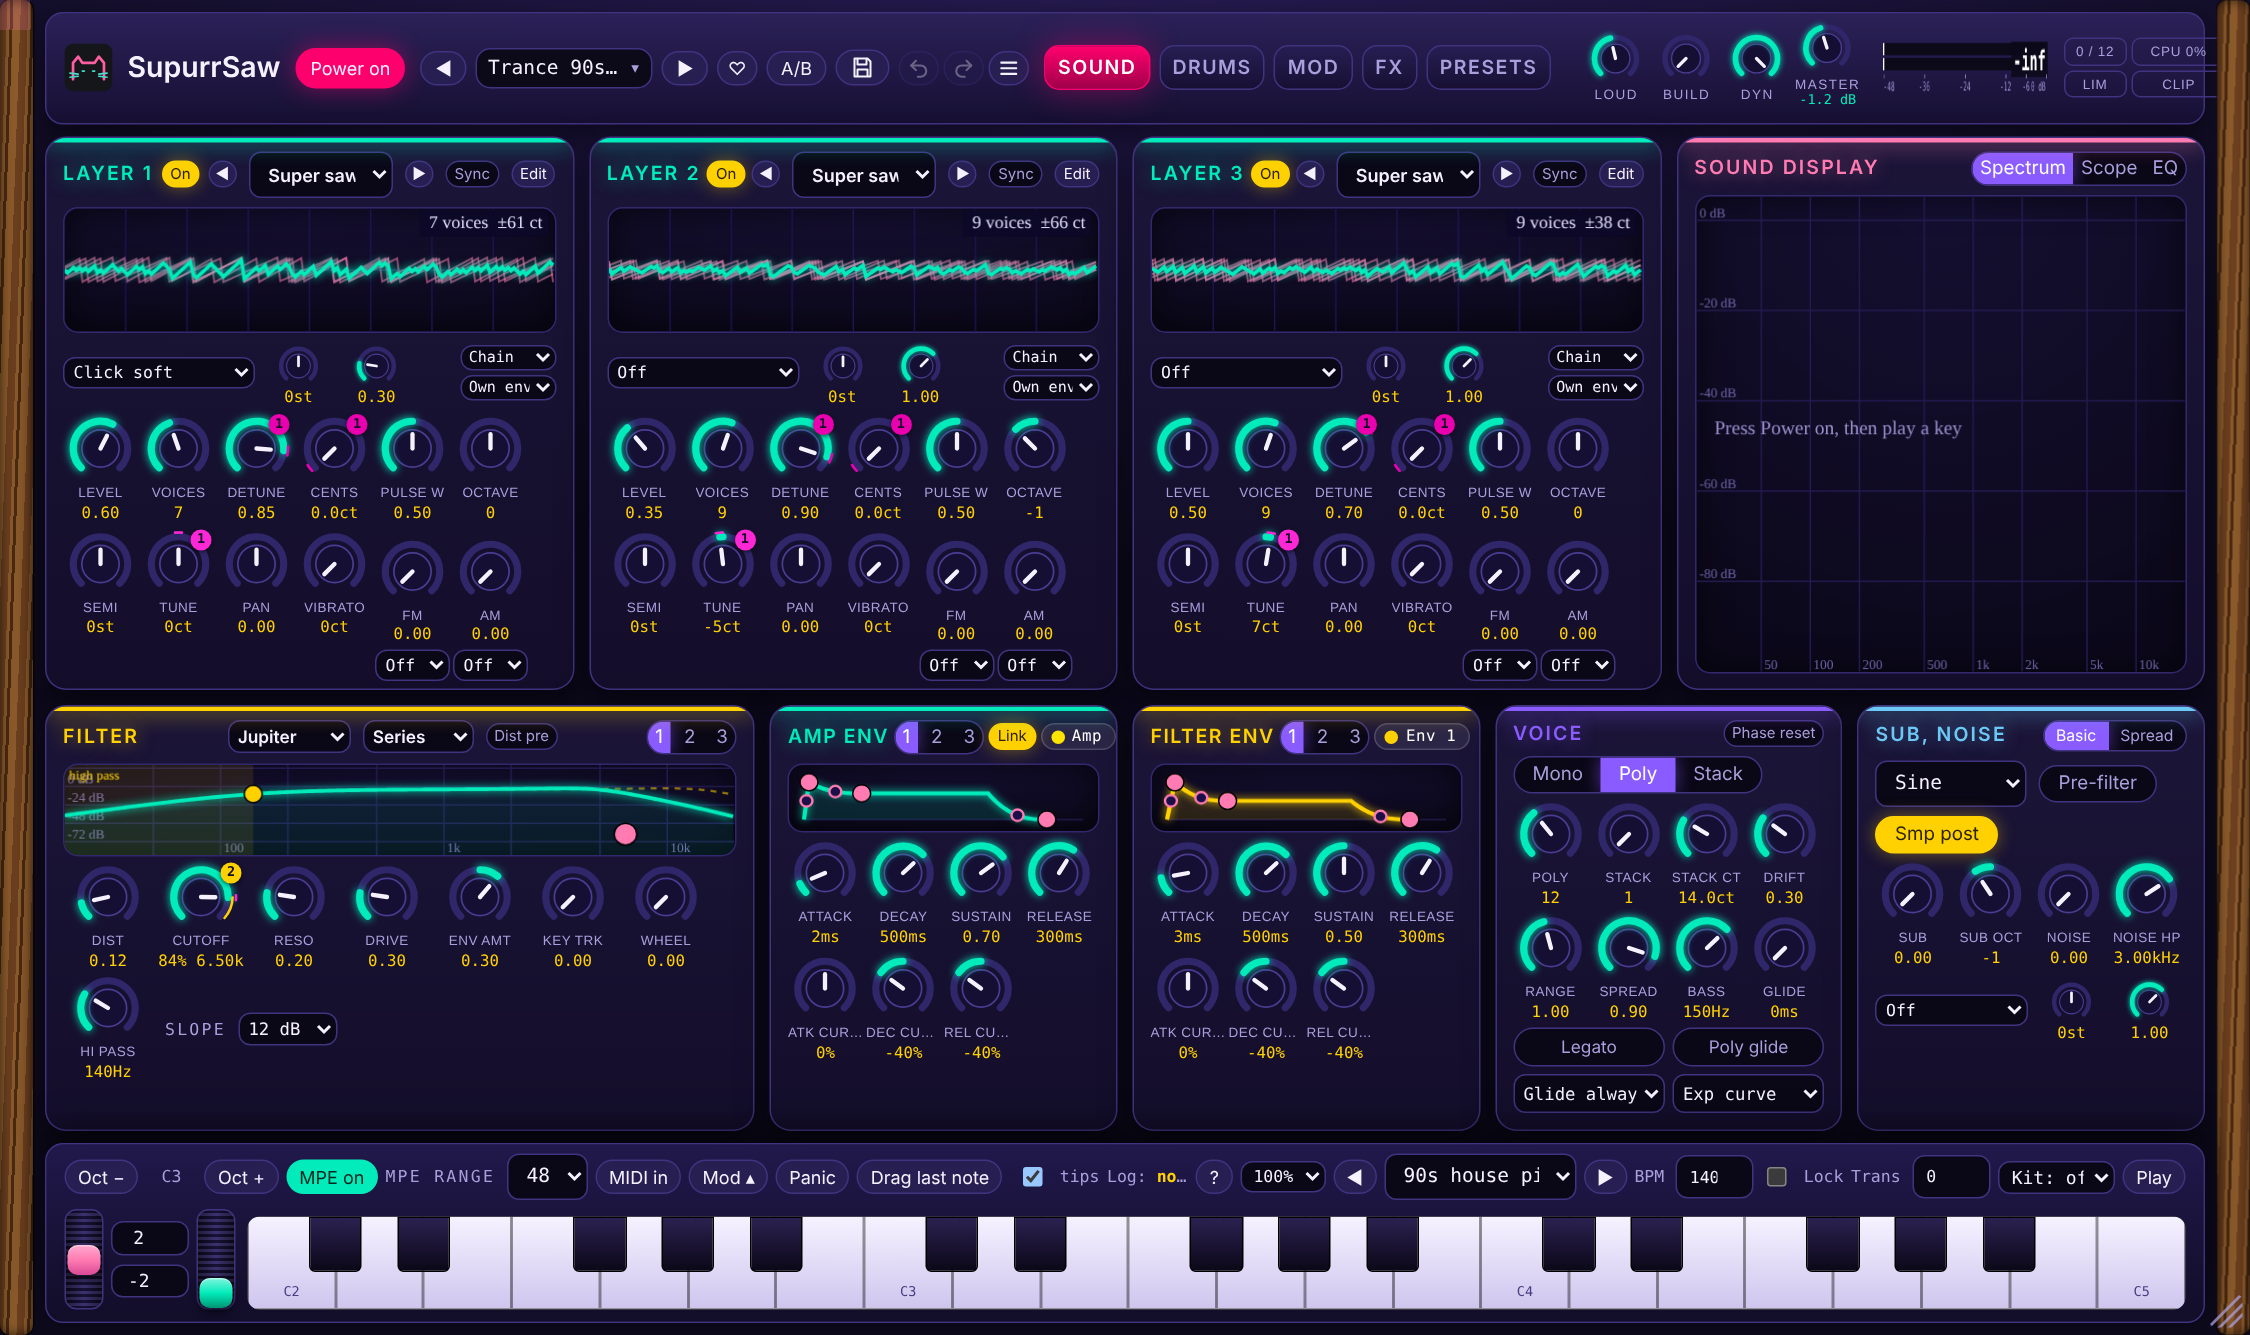
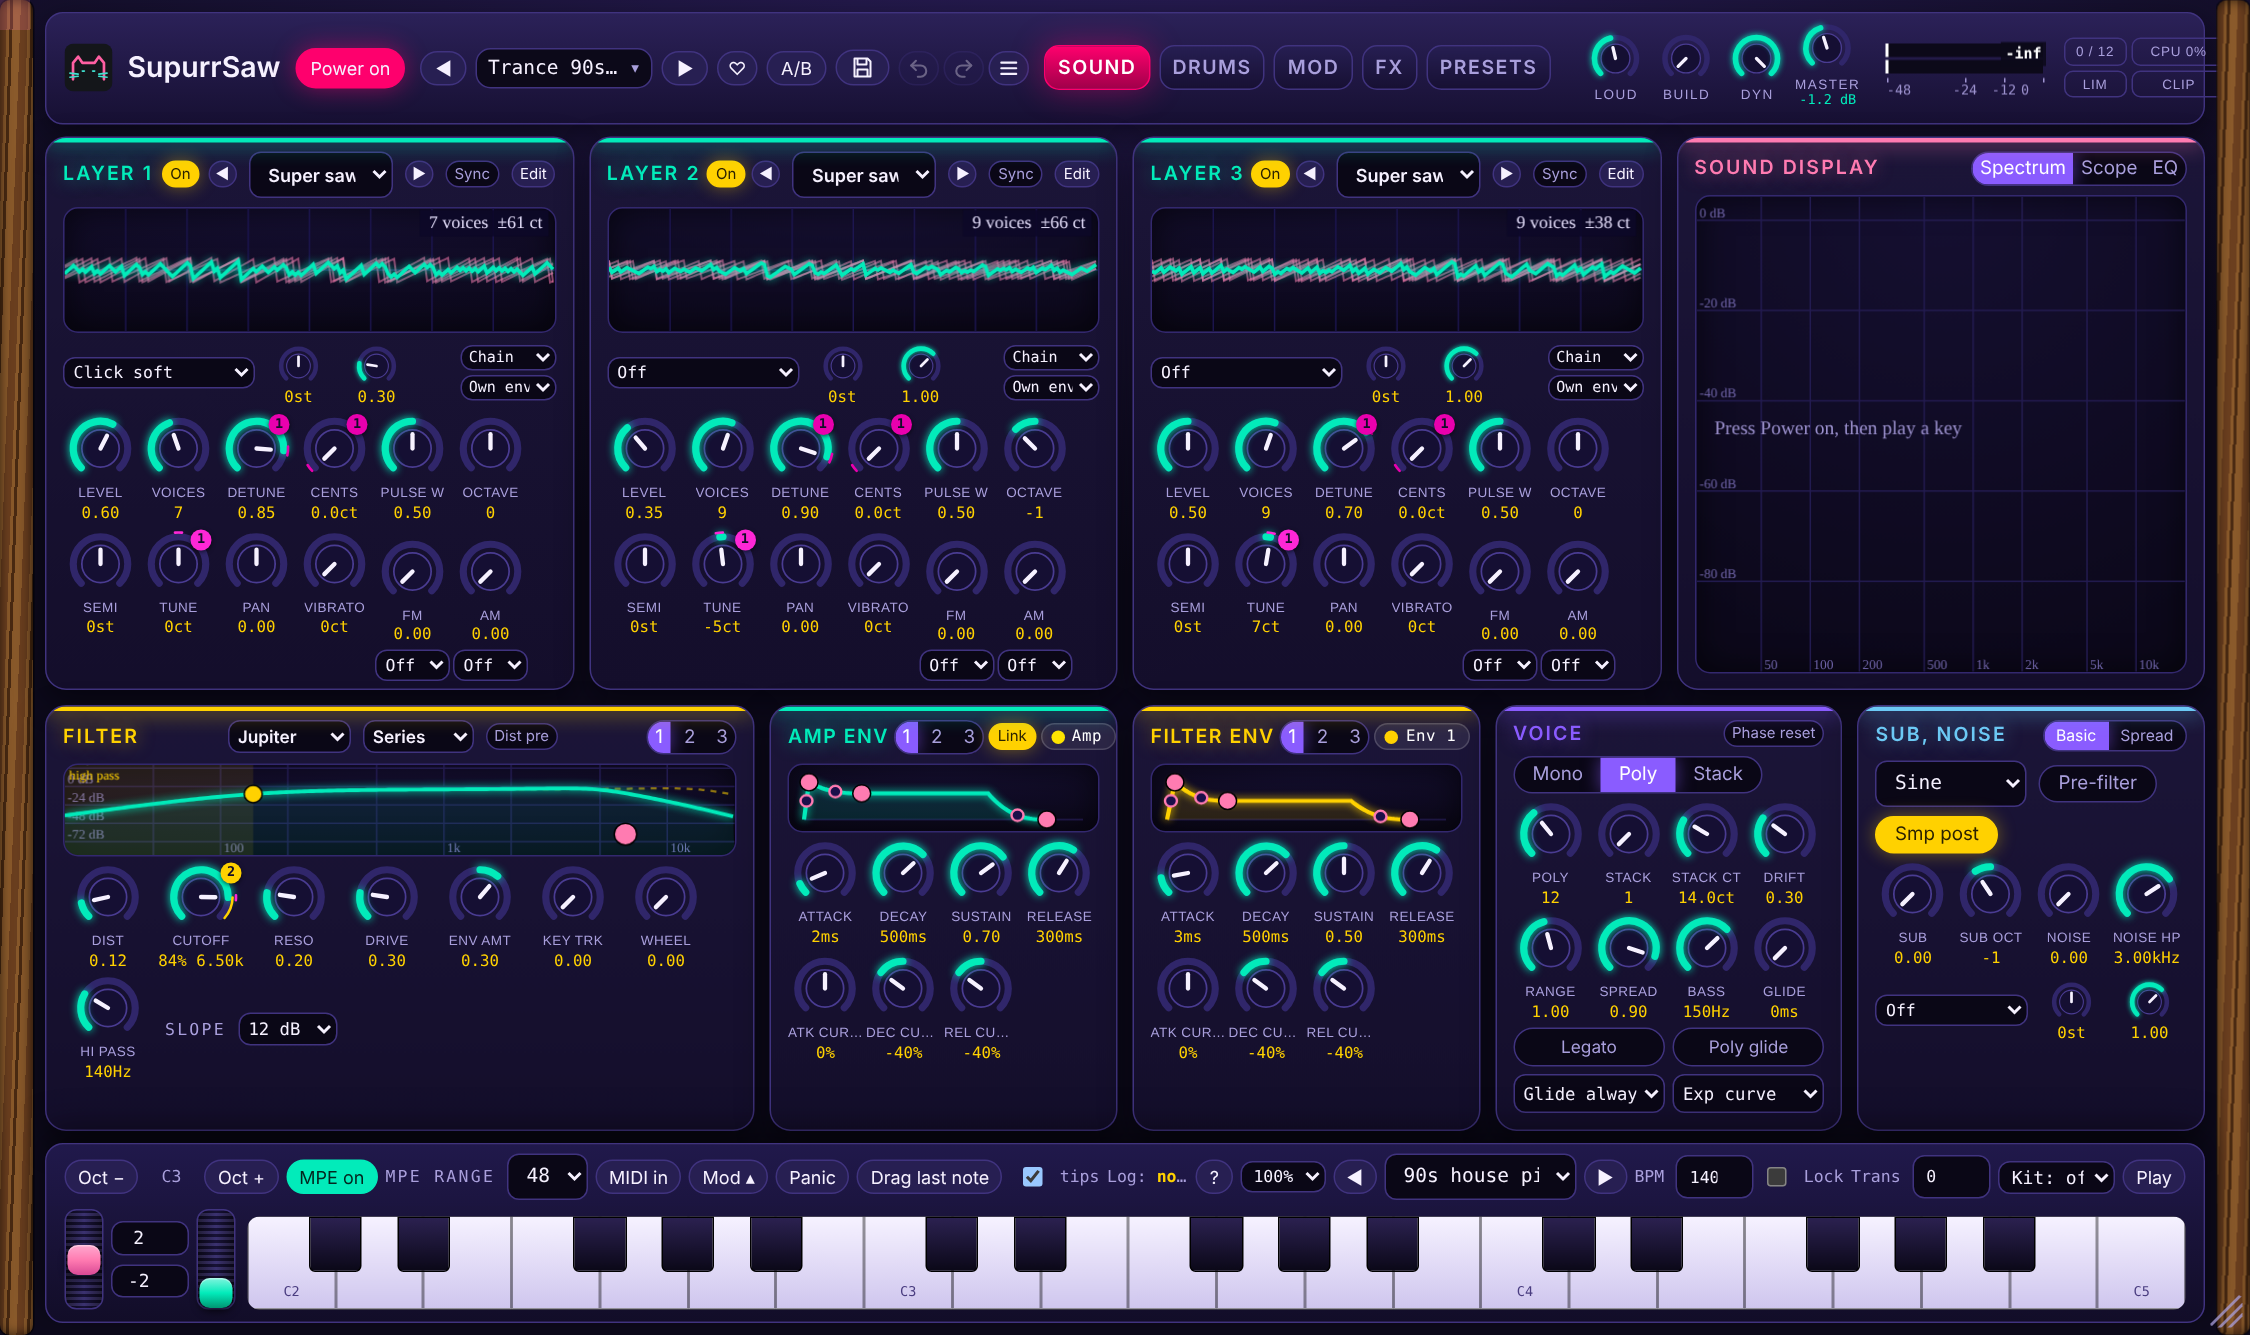
Meter scale readable at the plugin's width, real CPU load shown in the host, diagnostics report includes the current settings
Claude-Session: https://claude.ai/code/session_015F85RWM9RCbLtwwXZANyrz

Changed region(s): [[0.28, 0.1843, 0.7467, 0.215], [0.0311, 0.1843, 0.2489, 0.215], [0.84, 0.0307, 0.9333, 0.0614]]

diff --git a/ui/supurrsaw-playground.html b/ui/supurrsaw-playground.html
@@ -3540,7 +3540,9 @@ const mc=$("#meter"),mg=mc.getContext("2d");
 const db=x=>x<1e-5?-100:20*Math.log10(x);
 let pk=[-100,-100],pkT=[0,0],fbuf=null,tbuf=null;
 function drawMeter(){
-  const W=mc.width,H=mc.height;mg.clearRect(0,0,W,H);
+  const dpr=window.devicePixelRatio||1,cw=mc.clientWidth||250,chh=mc.clientHeight||40;   /* backing store follows the real size, so the number is never stretched */
+  if(mc.width!==Math.round(cw*dpr)||mc.height!==Math.round(chh*dpr)){mc.width=Math.round(cw*dpr);mc.height=Math.round(chh*dpr);}
+  mg.setTransform(dpr,0,0,dpr,0,0);const W=cw,H=chh;mg.clearRect(0,0,W,H);
   const lo=-48,x=d=>clamp((d-lo)/(0-lo),0,1)*(W-8)+4,vals=[db(meter.l),db(meter.r)];
   for(let c=0;c<2;c++){
     const d=vals[c],y=4+c*11;
@@ -3550,9 +3552,9 @@ function drawMeter(){
     const now=performance.now();if(d>=pk[c]||now-pkT[c]>1200){pk[c]=d;pkT[c]=now;}
     mg.fillStyle="#fff";mg.fillRect(x(pk[c])-1,y,2,9);
   }
-  {const pm=Math.max(pk[0],pk[1]),s=Math.max(1,W/(mc.clientWidth||W)),fs=Math.round(9*s);mg.font="600 "+fs+"px IBM Plex Mono,monospace";mg.textAlign="right";const tx=pm<=-99?"-inf":(pm>0?"+":"")+pm.toFixed(1),w=mg.measureText(tx).width;mg.fillStyle="#0c0919dd";mg.fillRect(W-w-8,3,w+6,fs+6);mg.fillStyle=pm>-1?"#ff7bb1":"#fff";mg.fillText(tx,W-5,3+fs+1);}
+  {const pm=Math.max(pk[0],pk[1]),fs=10;mg.font="600 "+fs+"px IBM Plex Mono,monospace";mg.textAlign="right";const tx=pm<=-99?"-inf":(pm>0?"+":"")+pm.toFixed(1),w=mg.measureText(tx).width;mg.fillStyle="#0c0919dd";mg.fillRect(W-w-8,3,w+6,fs+6);mg.fillStyle=pm>-1?"#ff7bb1":"#fff";mg.fillText(tx,W-5,3+fs+1);}
   mg.fillStyle="#9d92cf";mg.font="9px IBM Plex Mono,monospace";mg.textAlign="center";
-  for(const t of [-48,-36,-24,-12,-6,0]){const tx=x(t);mg.fillRect(tx,27,1,3);mg.fillText(t===0?"0 dB":String(t),clamp(tx,12,W-16),39);}
+  for(const t of (W<170?[-48,-24,-12,0]:[-48,-36,-24,-12,-6,0])){const tx=x(t);mg.fillRect(tx,27,1,3);mg.fillText(t===0?(W<170?"0":"0 dB"):String(t),clamp(tx,12,W-16),Math.min(39,H-2));}
   {const vt=(meter.act|0)+" / "+(P?P.polyphony:0),vn=$("#voices").firstChild;if(vn&&vn.nodeType===3){if(vn.nodeValue!==vt)vn.nodeValue=vt;}else $("#voices").insertBefore(document.createTextNode(vt),$("#voices").firstChild);window.__polySync&&window.__polySync();
     const ld=clamp(meter.load||0,0,1),ct="CPU "+Math.round(ld*100)+"%"+(meter.cap<15?" *":"");const cb=$("#cpuBar"),cx=$("#cpuTxt"),cl=$("#cpuLamp");if(cx&&cx.textContent!==ct)cx.textContent=ct;if(cb)cb.style.width=Math.round(ld*100)+"%";if(cl){cl.classList.toggle("mid",ld>=0.6&&ld<0.85);cl.classList.toggle("hi",ld>=0.85);}}
   $("#lampLim").classList.toggle("on",meter.lim>(P?P.limCeil:0.9)+0.005);

diff --git a/plugin/Source/PluginEditor.cpp b/plugin/Source/PluginEditor.cpp
@@ -105,9 +105,12 @@ SupurrEditor::SupurrEditor (SupurrProcessor& p) : AudioProcessorEditor (&p), pro
             juce::File f = which == "log" ? Diagnostics::folder ("logs") : Diagnostics::folder (safeName (which).isEmpty() ? "exports" : safeName (which));
             f.revealToUser(); done (true);
         })
-        .withNativeFunction ("copyDiagnostics", [] (const juce::Array<juce::var>&, Completion done)
+        .withNativeFunction ("copyDiagnostics", [sp = juce::Component::SafePointer<SupurrEditor> (this)] (const juce::Array<juce::var>&, Completion done)
         {
-            juce::SystemClipboard::copyTextToClipboard (Diagnostics::report());
+            auto text = Diagnostics::report();
+            if (sp != nullptr)   // current settings, so a report says what the instance really plays
+                text << "\nCurrent state:\n" << juce::JSON::toString (sp->proc.getInitState(), true) << "\n";
+            juce::SystemClipboard::copyTextToClipboard (text);
             done (true);
         })
         .withNativeFunction ("releaseFocus", [sp = juce::Component::SafePointer<SupurrEditor> (this)] (const juce::Array<juce::var>&, Completion done)
@@ -190,7 +193,7 @@ void SupurrEditor::timerCallback()
     for (int i = 0; i < 3; ++i) arr.add (m.gr[i]);
     for (int i = 0; i < 3; ++i) arr.add (m.dm[i]);
     arr.add (m.trips);
-    arr.add (0.f); arr.add (0.f);                         // load, voice cap (page defaults)
+    arr.add (proc.engineLoad()); arr.add (0.f);          // measured engine load; voice cap (page default)
     for (int i = 0; i < 4; ++i) arr.add (0.f);           // EQ live (page computes its own here)
     for (int i = 0; i < 8; ++i) arr.add (m.wet[i]);
     web->emitEventIfBrowserIsVisible ("meters", juce::var (arr));

diff --git a/plugin/Source/PluginProcessor.cpp b/plugin/Source/PluginProcessor.cpp
@@ -130,6 +130,7 @@ void SupurrProcessor::processBlock (juce::AudioBuffer<float>& buffer, juce::Midi
     }
 
     // host MIDI, rendered in slices so notes land on the right sample
+    const auto tRender0 = juce::Time::getHighResolutionTicks();
     int pos = 0;
     auto renderTo = [&] (int end)
     {
@@ -191,6 +192,11 @@ void SupurrProcessor::processBlock (juce::AudioBuffer<float>& buffer, juce::Midi
     }
     volNow = target;
     scopeWp.store (wp, std::memory_order_release);
+    {   // engine load: render time against the time this block covers
+        const double sr = sampleRateNow.load();
+        const double used = juce::Time::highResolutionTicksToSeconds (juce::Time::getHighResolutionTicks() - tRender0);
+        if (sr > 0 && n > 0) { const float x = (float) (used / ((double) n / sr)); float o = loadNow.load(); loadNow.store (o + 0.3f * (x - o)); }
+    }
 
     auto bump = [] (std::atomic<float>& a, float v) { float o = a.load(); while (v > o && ! a.compare_exchange_weak (o, v)) {} };
     bump (mPeakL, pl); bump (mPeakR, pr);

diff --git a/plugin/Source/PluginProcessor.h b/plugin/Source/PluginProcessor.h
@@ -40,6 +40,7 @@ public:
     void setOutputVolume (float v) { volume.store (v); }
     void setMuted (bool m) { muted.store (m); }
     juce::var getInitState();                        // what the page restores at start
+    float engineLoad() const { return loadNow.load(); }   // 0..1, render time against the block time
 
     // ---- meters and scope, read by the editor timer ----
     struct MeterSnap { float l = 0, r = 0, lim = 0, gr[3] {}, dm[3] {}, wet[8] {}; int active = 0, trips = 0; };
@@ -101,6 +102,7 @@ private:
     std::atomic<float> liveBend { 0.f }, livePress { 0.f }, liveSlide { 0.f };   // pitch wheel, pressure and CC74 on the main channel: from MIDI or from the page
 
     std::atomic<double> sampleRateNow { 48000.0 };
+    std::atomic<float> loadNow { 0.f };
     std::atomic<float> mPeakL { 0 }, mPeakR { 0 }, mLim { 0 }, mGr[3], mDm[3], mWet[8];
     std::atomic<int> mActive { 0 }, mTrips { 0 };
 
